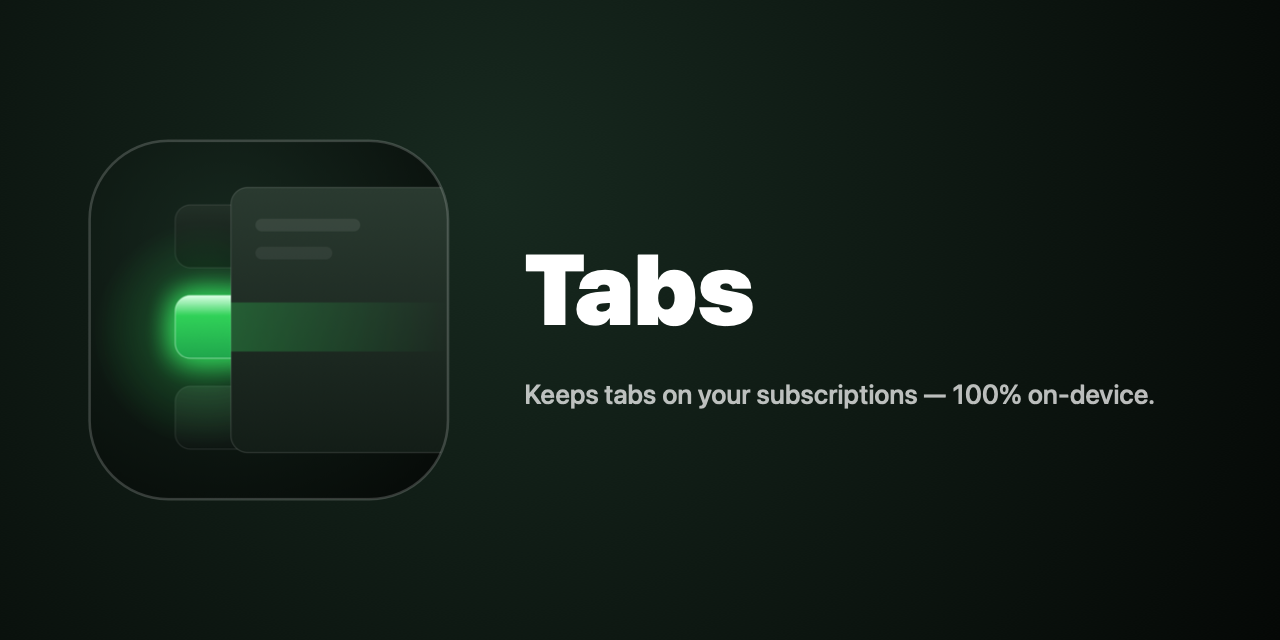
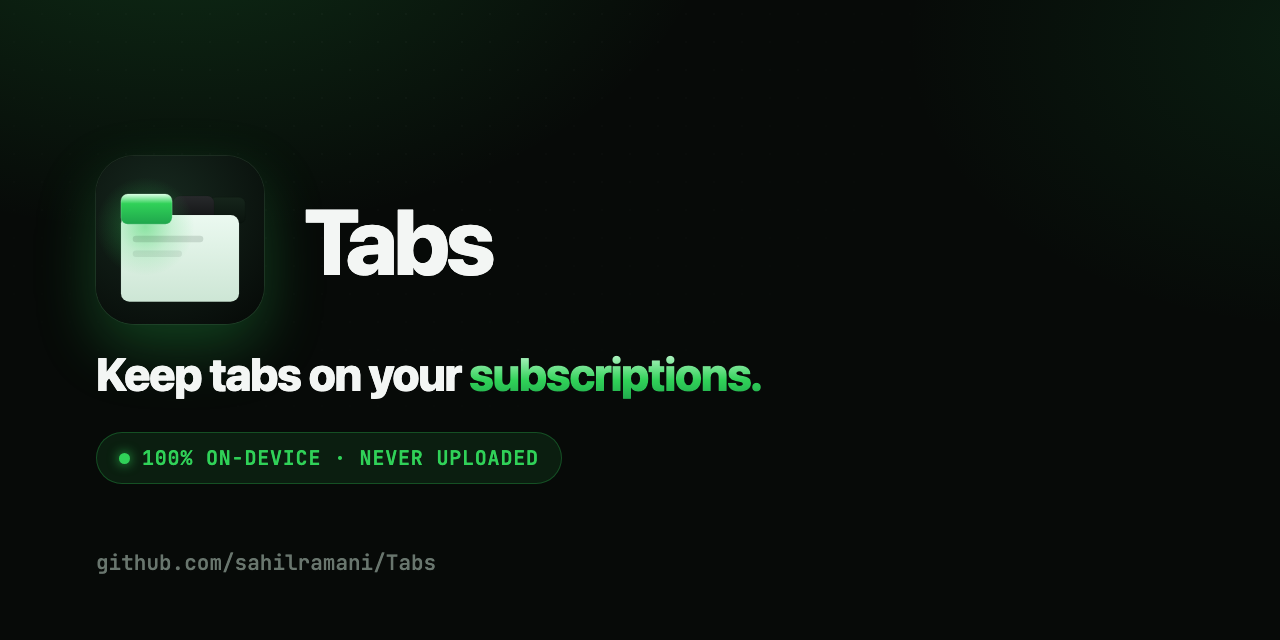
Regenerate social card with the new branding (#11)
Rebuilds the 1280x640 OG/social image around the tab-bar mark in the site's
dark-green theme. Source in branding/social-card.html, regenerated by
scripts/make-social-card.sh.

Changed region(s): [[0.0625, 0.125, 0.9062, 0.7812], [0.0625, 0.8438, 0.3438, 0.9062], [0.0938, 0.2188, 0.1562, 0.25]]

diff --git a/branding/social-card.html b/branding/social-card.html
@@ -1,0 +1,59 @@
+<!doctype html>
+<!--
+  Social / OG preview card (1280x640) for the Tabs site. Rendered to
+  docs/branding/social-1280x640.png by scripts/make-social-card.sh. Mirrors the
+  landing page's dark-green theme and uses the tab-bar app mark.
+-->
+<html>
+<head>
+<meta charset="utf-8">
+<link rel="preconnect" href="https://fonts.googleapis.com">
+<link rel="preconnect" href="https://fonts.gstatic.com" crossorigin>
+<link href="https://fonts.googleapis.com/css2?family=JetBrains+Mono:wght@500;600&display=swap" rel="stylesheet">
+<style>
+  * { box-sizing: border-box; margin: 0; }
+  html, body { width: 1280px; height: 640px; overflow: hidden; }
+  body {
+    font-family: -apple-system, BlinkMacSystemFont, 'SF Pro Text', 'Segoe UI', Roboto, Helvetica, Arial, sans-serif;
+    color: #F3F6F4;
+    background:
+      radial-gradient(900px 560px at 14% -16%, rgba(48,209,88,0.18), transparent 60%),
+      radial-gradient(760px 520px at 104% 6%, rgba(31,166,76,0.13), transparent 56%),
+      #070A08;
+    position: relative;
+  }
+  .dots {
+    position: absolute; inset: 0; pointer-events: none; opacity: 0.5;
+    background-image: radial-gradient(rgba(255,255,255,0.05) 1px, transparent 1px);
+    background-size: 28px 28px;
+    -webkit-mask-image: radial-gradient(900px 700px at 30% 0%, #000 0%, transparent 75%);
+  }
+  .wrap { position: relative; height: 100%; padding: 88px 96px; display: flex; flex-direction: column; justify-content: center; }
+  .row { display: flex; align-items: center; gap: 40px; }
+  .icon { width: 168px; height: 168px; border-radius: 38px; box-shadow: 0 24px 60px rgba(48,209,88,0.28), 0 0 0 1px rgba(255,255,255,0.08); display: block; flex: none; }
+  .wordmark { font-size: 92px; font-weight: 800; letter-spacing: -0.04em; line-height: 1; }
+  .tagline { margin-top: 26px; font-size: 46px; font-weight: 800; letter-spacing: -0.03em; line-height: 1.05; max-width: 880px; }
+  .grad { background: linear-gradient(180deg, #D9FFE4, #30D158 62%, #1FA64C); -webkit-background-clip: text; background-clip: text; color: transparent; }
+  .pill {
+    display: inline-flex; align-items: center; gap: 12px; margin-top: 34px;
+    font-family: 'JetBrains Mono', ui-monospace, monospace; font-size: 20px; font-weight: 600; letter-spacing: 0.04em;
+    color: #30D158; background: rgba(48,209,88,0.10); border: 1px solid rgba(48,209,88,0.28);
+    padding: 12px 22px; border-radius: 980px; width: fit-content;
+  }
+  .dot { width: 11px; height: 11px; border-radius: 50%; background: #30D158; box-shadow: 0 0 12px rgba(48,209,88,0.9); }
+  .foot { position: absolute; left: 96px; bottom: 64px; font-family: 'JetBrains Mono', ui-monospace, monospace; font-size: 21px; color: #69766E; }
+</style>
+</head>
+<body>
+  <div class="dots"></div>
+  <div class="wrap">
+    <div class="row">
+      <img class="icon" src="tabs-icon.svg" alt="Tabs">
+      <div class="wordmark">Tabs</div>
+    </div>
+    <div class="tagline">Keep tabs on your <span class="grad">subscriptions.</span></div>
+    <div class="pill"><span class="dot"></span>100% ON-DEVICE · NEVER UPLOADED</div>
+  </div>
+  <div class="foot">github.com/sahilramani/Tabs</div>
+</body>
+</html>
